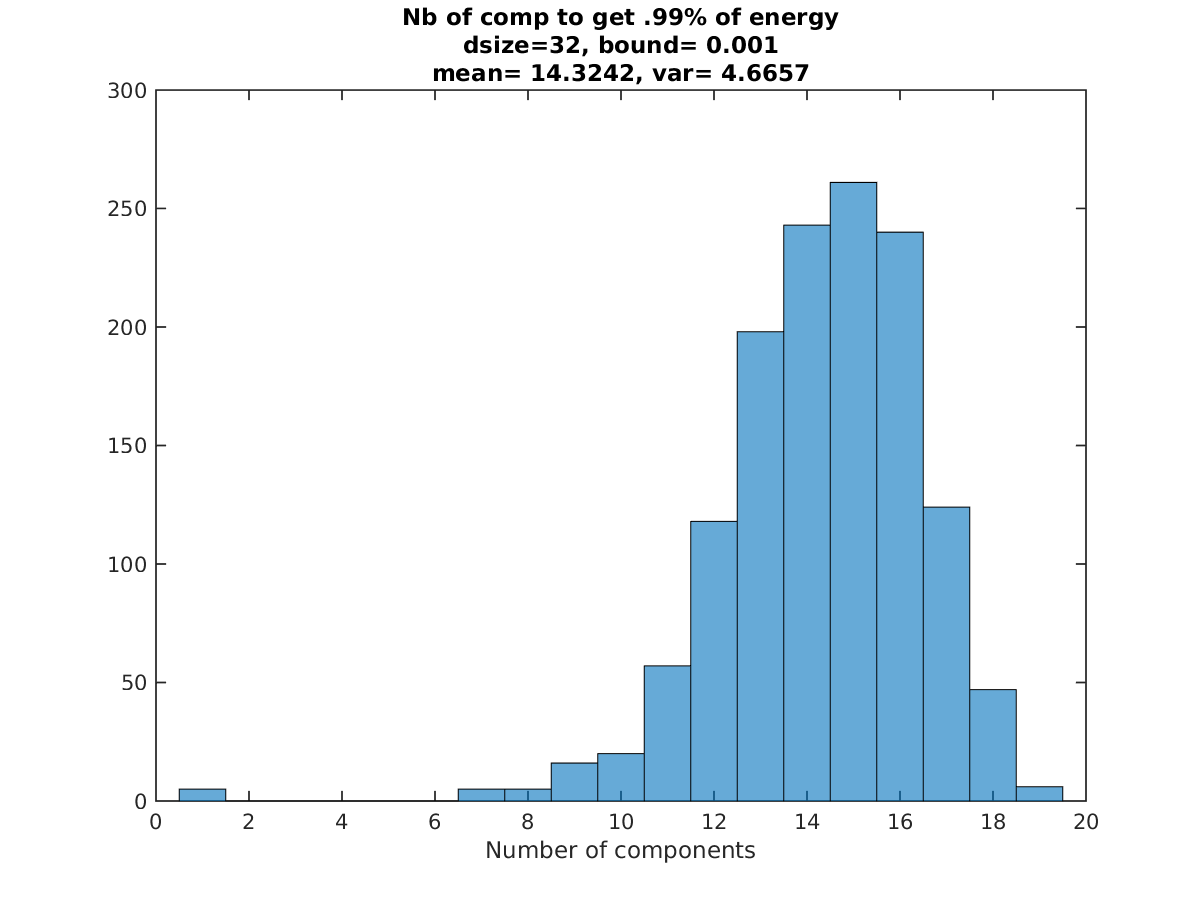
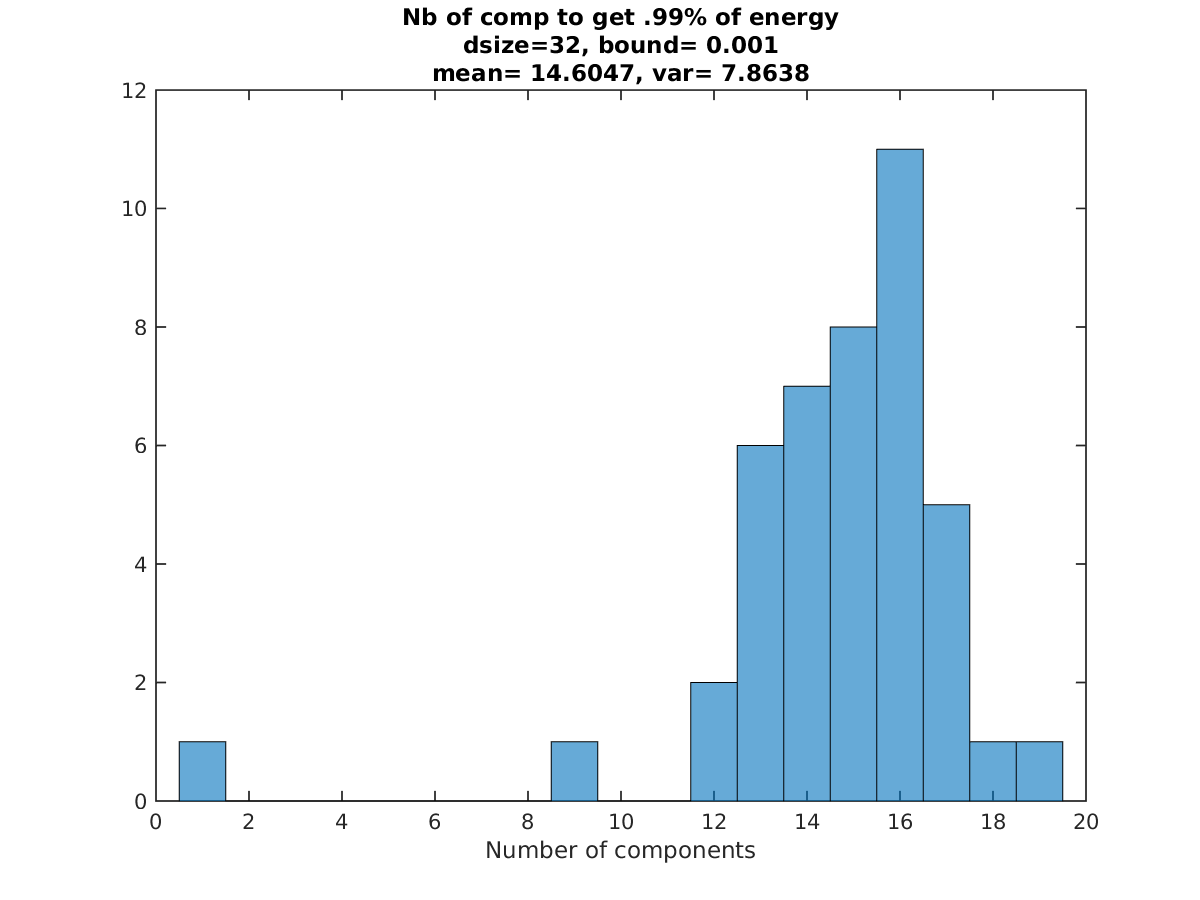
report

diff --git a/src/signalprocessing/MFCCreconstruction.m b/src/signalprocessing/MFCCreconstruction.m
@@ -15,11 +15,13 @@ noise_file = 'white_16kHz.wav';
 % Choose codebook
 load ../Codebooks.mat
 
-BOUNDARY= [.001 .005 .01 .05 .1];
+EPSILON= [.001 .005 .01 .05 .1];
 DSIZE= 1:3;
-for iboundary=1:length(BOUNDARY)
-    boundary= BOUNDARY(iboundary);
-for idsize=1:3
+% for iepsilon=1:length(EPSILON)
+    for iepsilon=3
+    epsilon= EPSILON(iepsilon);
+% for idsize=1:3
+    for idsize=2
     
 D= Codebooks{1,idsize};%
 % clear Codebooks;
@@ -29,14 +31,14 @@ D= Codebooks{1,idsize};%
 %Choose data
 load ../dataTest.mat
 % ISIGNAL= [round((length(DATA.rawSpeech)-1)*rand(1,20))+1];
-ISIGNAL= [40:55];
-% ISIGNAL=26;
+% ISIGNAL= [40:55];
+ISIGNAL=47;
 sparsity=[];
 t_=[];
 En_=[];
 En_model_=[];
 ifig=1;
-low_value=1e-4;
+eta=1e-4;
 
 tic
 for isignal=ISIGNAL
@@ -135,7 +137,7 @@ for isignal=ISIGNAL
     [~,minI]= min(mel_py);
     
     Ey_sil= Ey_sil- mean(Ey(:,minI)); %*ones(1,nbframe);
-    Ey_sil(Ey_sil<low_value)=low_value;% Normalize
+    Ey_sil(Ey_sil<eta)=eta;% Normalize
     
     % Will receive the complete result
     Exhat= zeros(M, size(Ey,2));
@@ -170,8 +172,8 @@ for isignal=ISIGNAL
             variable zhat_frame(dsize,1)
             minimize( norm(zhat_frame,1) )
             subject to
-                D*zhat_frame>=low_value
-                norm( ey-D*zhat_frame )<=boundary
+                D*zhat_frame >= eta
+                norm( ey-D*zhat_frame ) <= epsilon
             cvx_end
             
             %Unlikely but happen sometimes
@@ -237,7 +239,7 @@ for isignal=ISIGNAL
 %                 zhat_tmp_storage(:,k)= zhat_tmp;
 %                 
 %                 
-%                 if  ( norm(r(:,k)) <= boundary )
+%                 if  ( norm(r(:,k)) <= epsilon )
 %                     %         k= k - 1;
 %                     Ihat= I(:,k);
 %                     break;
@@ -270,9 +272,9 @@ for isignal=ISIGNAL
         end
         sparsity=horzcat(sparsity,PrincipalCompNb);
         %Save sparsity results
-        RES_mean(iboundary,idsize)= mean(sparsity);
-        RES_var(iboundary,idsize)= var(sparsity);
-        save('RES.mat','RES_mean','RES_var', 'BOUNDARY', 'DSIZE');
+        RES_mean(iepsilon,idsize)= mean(sparsity);
+        RES_var(iepsilon,idsize)= var(sparsity);
+        save('RES.mat','RES_mean','RES_var', 'EPSILON', 'DSIZE');
         
 %         MSE= norm(Ex(:)-Exhat(:));
         
@@ -294,38 +296,56 @@ plotMFCC(ifig,Ex,Ey,Exhat); ifig=ifig+1;
 figure(ifig), clf;  ifig=ifig+1;
 histogram(sparsity)%,round(nbframe/2));
 title({['Nb of comp to get .99% of energy'];...
-        ['dsize=' num2str(dsize) ', bound= ' num2str(boundary)];...
+        ['dsize=' num2str(dsize) ', bound= ' num2str(epsilon)];...
         ['mean= ' num2str(mean(sparsity)) ', var= ' num2str(var(sparsity))]});
 xlabel('Number of components');
-saveas(gcf,['sparsity_dsize' num2str(dsize) '_bound' num2str(boundary) '.png']);
+saveas(gcf,['sparsity_dsize' num2str(dsize) '_bound' num2str(epsilon) '.png']);
 
 end%End dsize
 end
 figure(ifig), clf;  ifig=ifig+1;
 plot(mel_py,'LineWidth',2); hold on;
 plot([1 length(mel_py)],energythresh*[1 1])%soundsc(x,Fs)
+%% Kaldi results
+WER= [74.5 75.3 76.2 77.9 79.0];
+WER_BOUND= [.001 .01 .02 .05 .1];
+NoProcessing= 80.5;
+SilentProcessingPerf= 74.4;
+CleanTestData= 56.3;
+figure,
+    plot(WER_BOUND, NoProcessing*ones(1,length(WER_BOUND)),'LineWidth',2,'Color','red'); hold on;
+    plot(WER_BOUND, WER,'Marker','o','MarkerFaceColor','blue','Color','blue'); hold on;
+    plot(WER_BOUND, SilentProcessingPerf*ones(1,length(WER_BOUND)),'LineWidth',2); hold on;
+%     plot(WER_BOUND, CleanTestData*ones(1,length(WER_BOUND)),'LineWidth',2);
+    
+    legend('No processing','Silence + Speech frames','Only Silence frames');
+    title({'Kaldi performances';'Noisy test data 10dB'});
+    xlabel('Value of \epsilon');
+    ylabel('WER (%)');
+
 %%
+
 figure, 
-    plot(BOUNDARY,RES_mean(:,1),'LineWidth',2); hold on;
-    plot(BOUNDARY,RES_mean(:,2),'LineWidth',2); hold on;
-    plot(BOUNDARY,RES_mean(:,3),'LineWidth',2);
+    plot(EPSILON,RES_mean(:,1),'LineWidth',2); hold on;
+    plot(EPSILON,RES_mean(:,2),'LineWidth',2); hold on;
+    plot(EPSILON,RES_mean(:,3),'LineWidth',2);
     legend('dsize= 32','dsize= 64','dsize= 128');
     ylabel('Mean of nb of comp in z');
-    xlabel('boundary value');
+    xlabel('epsilon value');
     title('Mean of nb of comp to get 99% of z');
     saveas(gcf,['Sparsity_mean.png']);
     
     figure, 
-    plot(BOUNDARY,RES_var(:,1),'LineWidth',2); hold on;
-    plot(BOUNDARY,RES_var(:,2),'LineWidth',2); hold on;
-    plot(BOUNDARY,RES_var(:,3),'LineWidth',2);
+    plot(EPSILON,RES_var(:,1),'LineWidth',2); hold on;
+    plot(EPSILON,RES_var(:,2),'LineWidth',2); hold on;
+    plot(EPSILON,RES_var(:,3),'LineWidth',2);
     legend('dsize= 32','dsize= 64','dsize= 128');
     ylabel('Variance in number of components');
-    xlabel('boundary value');
+    xlabel('epsilon value');
     title('var of nb of comp to get 99% of z');
     saveas(gcf,['Sparsity_variance.png']);
 % dsize= [32 64 128];
-% boundary= [.001 .01 .02];
+% epsilon= [.001 .01 .02];
 % RES_mean= zeros(3,3); RES_var= zeros(3,3);
 % RES_mean(1,:)= [14.3242 9.7896 8.1717]
 

diff --git a/report/master.tex b/report/master.tex
@@ -28,6 +28,7 @@
 
 %\newcounter{apppage} % Annexes
 
+
 %Dossier contenant les figures
 \graphicspath{{figures/}}
 
@@ -92,7 +93,7 @@
 \newcommand{\ey}{\textbf{e}_y}
 \newcommand{\ex}{\textbf{e}_x}
 \newcommand{\en}{\textbf{e}_n}
-\newcommand{\exhat}{ \hat{\textbf{e}} }
+\newcommand{\exhat}{ \hat{\textbf{e}}_x }
 \newcommand{\zhat}{ \hat{\textbf{z}} }
 
 
@@ -105,7 +106,7 @@
 \textsc{EQ2442\\Project Course on Multimedia Signal Processing}\\[25pt] 
 \horrule{1pt} \\[0.4cm] % Thin top horizontal rule
 \huge {Denoising of MFCCs for better ASR performances} \\[0.4 cm] % The assignment title
-\Large{Supervisor: Saikat Chaterjee}\\[0.4 cm]
+\Large{Supervisor: Saikat Chatterjee}\\[0.4 cm]
 \horrule{2pt} \\[0.2cm] % Thick bottom horizontal rule
 }
 
@@ -135,7 +136,7 @@ To test our denoising scheme, we used kaldi, a free and open-source sofware. Kal
 \subsection{Database}
 We used the TIMIT database to train and test our system. The kaldi implementation provides testing example on different databases and TIMIT is one of them. We therefore had access the implementation of the scoring process using the TIMIT database and that saved us a lot of time.
 
-\section{Denoising scheme}
+\section{Denoising algorithm}
 The idea is to reduce the dimension of \textbf{e} and find a vector $\ehat = \sum_{i=1}^N\textbf{d}_iz_i$ . Here, $\textbf{d}_i$ is the ith column of a fat matrix D and is used as a codebook. To reduce the dimension, \textbf{z} has have strictly less than M non-zero coefficients.
 We denote by x the clean speech signal, n the additive noise and y = x + n, the noisy signal. 
 First we assume that the additivity holds up to the mel coefficients, $\ey= \ex + \en$.\\
@@ -172,19 +173,33 @@ However, $\ell^0-norm$ is a pseudo-norm, hence the problem is consider not tract
 \label{l1}
 \end{equation}
  is often a good approximation of the solution of problem \ref{l0}. Problem \ref{l1} is convex and is therefore easier and faster to solve.\\
-Ideally $\eta = 0$. However, for (\ref{l1}) to remain a convex optimization problem, the inequality constraint must not be strict. In our problem, we do not want any of the approximated mel coefficients to be zero, therefore we chose $\eta = 10^{-4}$. This value represents the lower value that the mel coefficients can now take.
+Ideally $\eta = 0$. However, for (\ref{l1}) to remain a convex optimization problem, the inequality constraint must not be strict. In our case, we want the approximated mel coefficients to be strictly positive, therefore we chose $\eta = 10^{-4}$. This value represents the lower value that the mel coefficients can now take.
 %Let define $\zhat$ as the solution of problem \ref{l1}.
 The solver we used is CVX\footnote{CVX documentation: http://web.cvxr.com/cvx/doc/}.\\
 
-With the CVX syntax, the problem is:
-\img{convex_problem}{.8}{Convex problem with CVX syntax\\low\_value=$\eta$, boundary=$\epsilon$}
+With the CVX syntax, the problem looks like this:
+\img{convex_problem}{.8}{Convex problem with CVX syntax}
 
 \section{Results}
 \subsection{Additivity hypothesis}
 
 \subsection{Reducing the dimension}
 
-\subsection{Increase Kaldi performances}
+\subsection{Kaldi performances}
+First we need to separate two types of frames:\begin{enumerate}
+\item the speech frames (high energy) containing the information;
+\item the silence frames (low energy) containing  noise.
+\end{enumerate}
+The silent frames come from a pure white noise signal, hence the mel coefficients of these frames are also random variables. 
+As figure \ref{kaldiperformances} shows, the denoising algorithm does not improve kaldi's performances.
+\img{kaldiperformances}{.5}{Plot of kaldi performances versus value of $\epsilon$}
+
+We observe that we do not manage to fit $\ex$ by allowing $||\ey-\exhat||_2$ to become large.
+Here are some suggestion of improvement:
+\begin{itemize}
+\item[o] The problem could be ill-posed, instead we could use the dictionnary with the actual amplitude of the mel coefficients in the training set. take a very large dictionnary and try to fit one of them.
+\item[o]
+\end{itemize}
 
 \bibliography{bibtex}
 \end{document}

diff --git a/src/melfcc.m b/src/melfcc.m
@@ -128,7 +128,7 @@ if ~isempty(D)
     
 %     Ey_sil= Ex_sil;
     nbframe= size(Ey_speech,2);
-    boundary=.1;
+    boundary=.05;
     
     %%%%%%%%%%%%%%%%%%%%%%%%%%%%%%%%%%%%%%%%%%%%%%%%%%%%%%%%%%%%%%%%%%%%%%%%%%%
         %%%%%%%%%%%%%%%%%%%%%%%%%%%%%%%%%%%%%%%%%%%%%%%%%%%%%%%%%%%%%%%%%%%%%%%%%%%    
